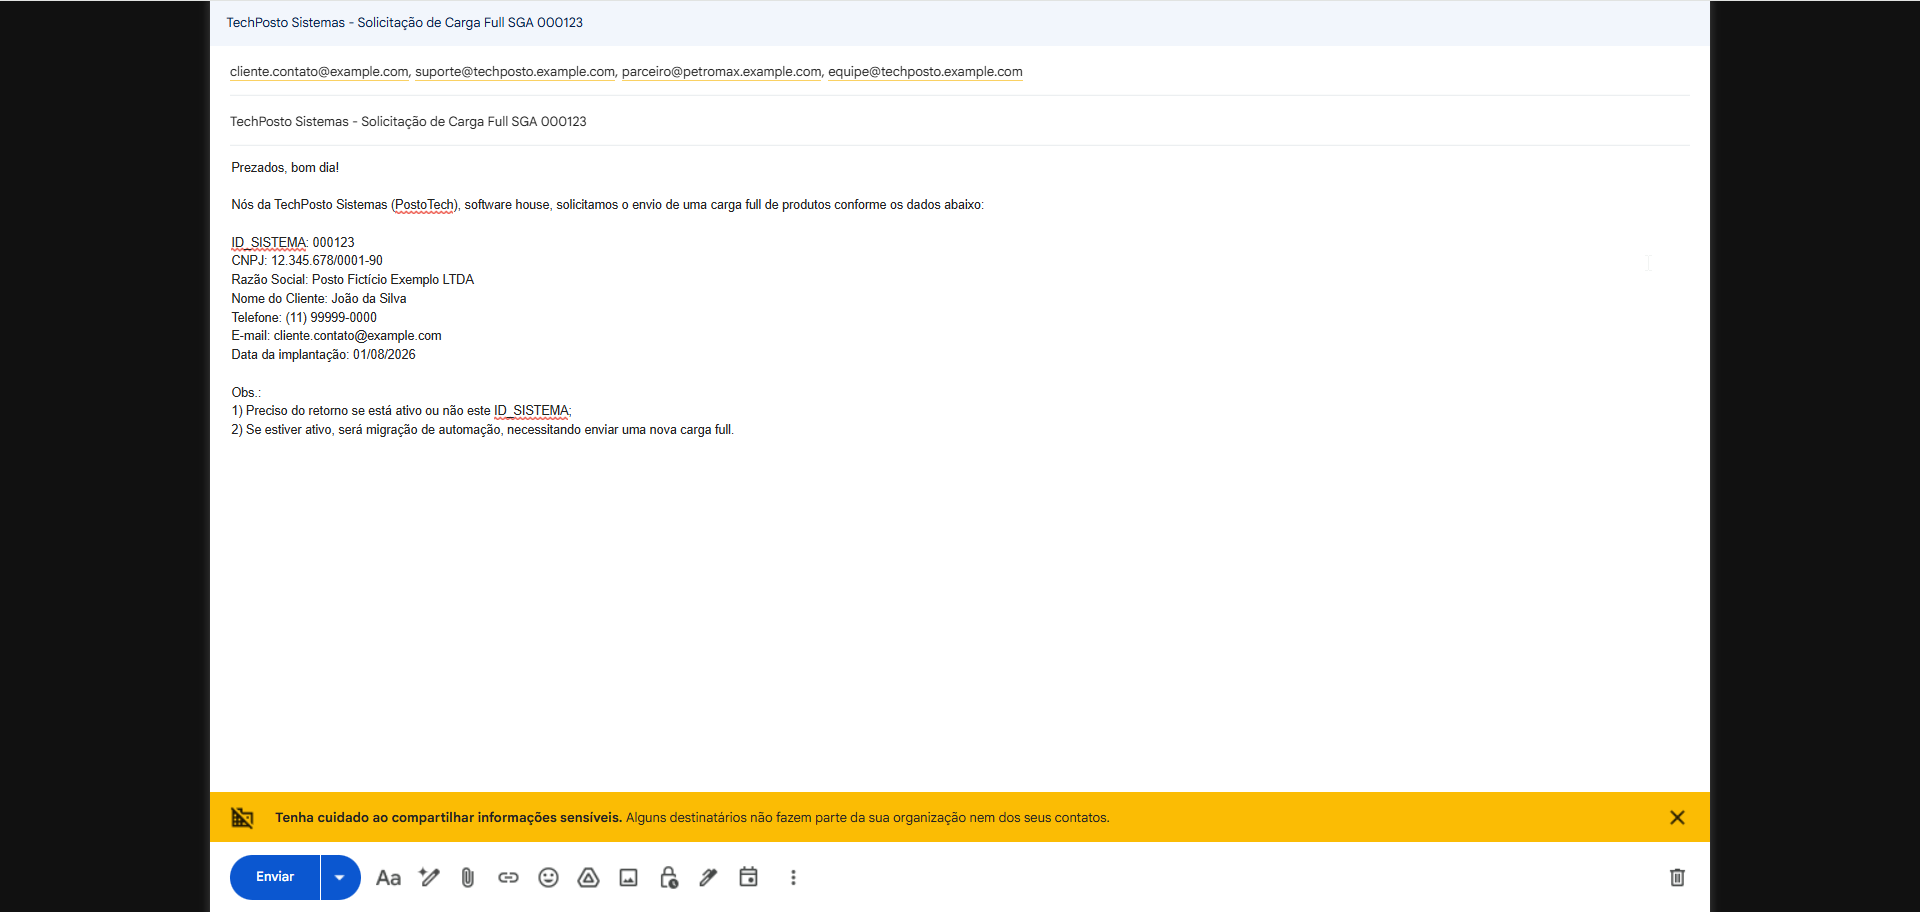
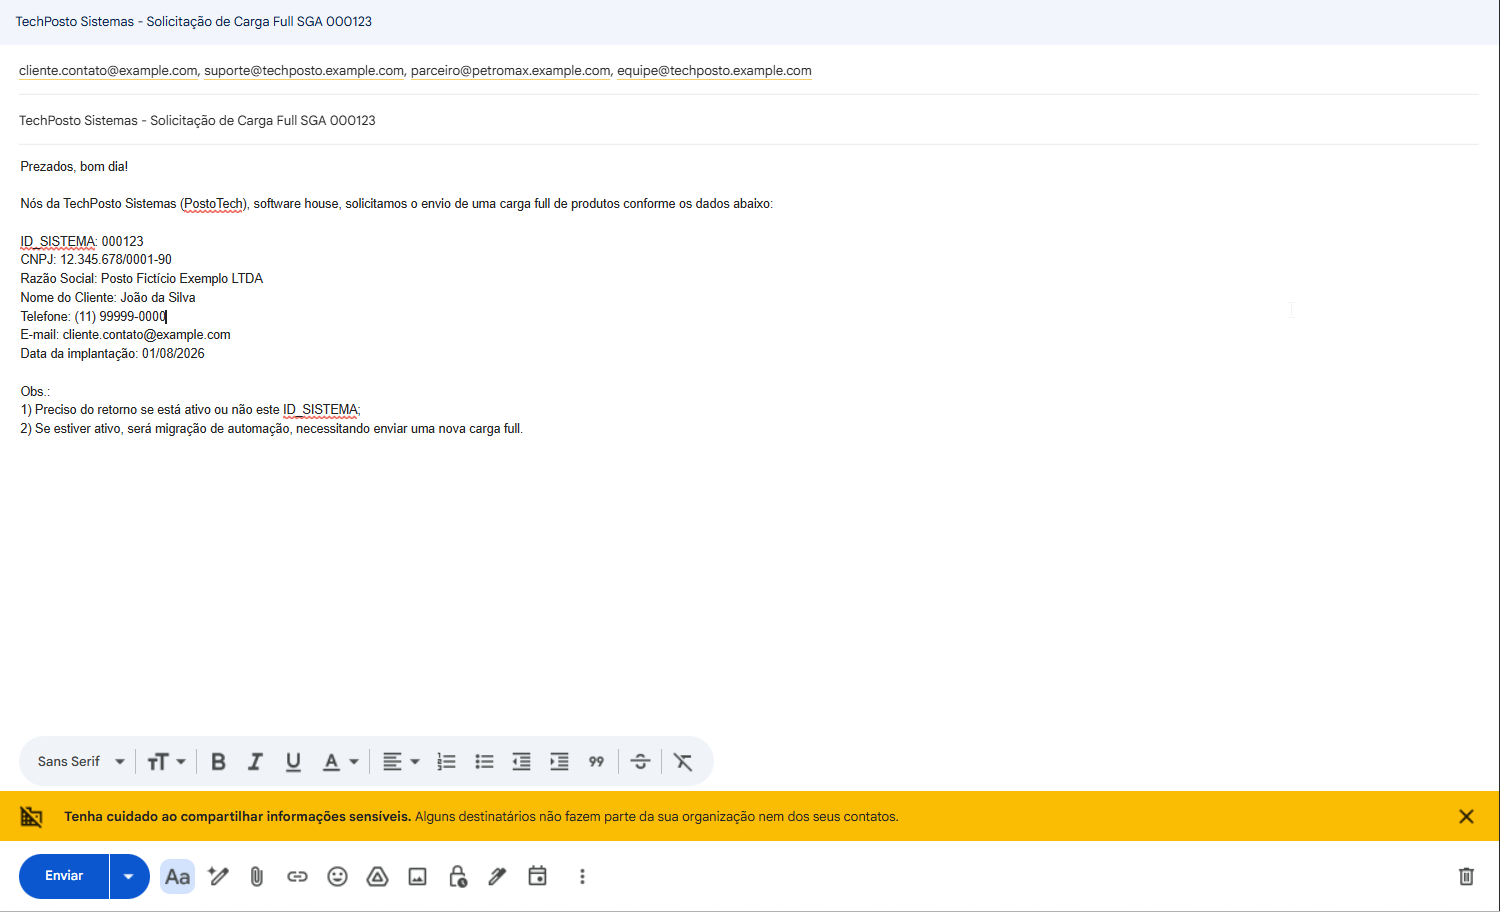
Atualizando README

Changed region(s): [[0.0, 0.0, 0.5827, 1.0], [0.8587, 0.0, 1.0, 1.0], [0.184, 0.8289, 0.46, 0.8596]]

diff --git a/README.md b/README.md
@@ -5,18 +5,18 @@ App desktop em Python + PySide6 pra automatizar umas rotinas chatas de suporte t
 ## Prints
 
 <table>
-<tr>
-<td align="center"><img src="docs/tela-principal.png" width="380"/><br/><sub>Tela principal</sub></td>
-<td align="center"><img src="docs/validar-componentes.png" width="380"/><br/><sub>Validação de componentes</sub></td>
-</tr>
-<tr>
-<td align="center"><img src="docs/resultado-componentes.png" width="380"/><br/><sub>Resultado da validação</sub></td>
-<td align="center"><img src="docs/gerar-email.png" width="380"/><br/><sub>Gerar e-mail</sub></td>
-</tr>
-<tr>
-<td align="center"><img src="docs/resultado-email.png" width="380"/><br/><sub>E-mail gerado</sub></td>
-<td></td>
-</tr>
+    <tr>
+    <td align="center"><img src="docs/tela-principal.png" width="380"/><br/><sub>Tela principal</sub></td>
+    <td align="center"><img src="docs/validar-componentes.png" width="380"/><br/><sub>Validação de componentes</sub></td>
+    </tr>
+    <tr>
+    <td align="center"><img src="docs/resultado-componentes.png" width="380"/><br/><sub>Resultado da validação</sub></td>
+    <td align="center"><img src="docs/gerar-email.png" width="380"/><br/><sub>Gerar e-mail</sub></td>
+    </tr>
+    <tr>
+    <td align="center"><img src="docs/resultado-email.png" width="380"/><br/><sub>E-mail gerado</sub></td>
+    <td align="center"><img scr="docs/tela-CNPJ.png" width="380"/><br><sub>Editar CNPJ</sub></td>
+    </tr>
 </table>
 
 ## Funcionalidades
